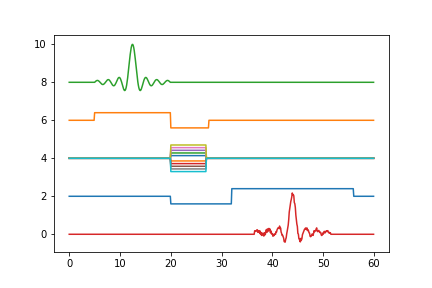
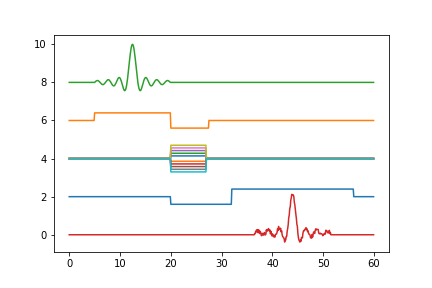
complete functional decay functions

diff --git a/kspace.py b/kspace.py
@@ -11,6 +11,12 @@ class Temp:
     m64 = np.ndarray((64,64,3))
     temp_counter = 0
     
+class Parameters:
+    TE = 0
+    TR = 0
+    RF = 0
+    
+    
 class KSpace:
     def __init__(self, phantom):
         super(KSpace,self).__init__()
@@ -36,10 +42,20 @@ class KSpace:
         self.real_kspace = np.fft.fft2(self.phantom)
         
         # in ms
-        self.T1 = 400
-        self.T2 = 40
-        self.TR = 2000
-        self.TE = 15
+        # self.T1 = 400
+        # self.T2 = 40
+        self.TR = Parameters.TR
+        self.TE = Parameters.TE
+        
+        self.tissue1_T2 = 70
+        self.tissue2_T2 = 80
+        # self.tissue3_T2 = 300
+        self.tissue3_T2 = 110
+        
+        self.tissue1_T1 = 500
+        self.tissue2_T1 = 800
+        # self.tissue3_T1 = 2500
+        self.tissue3_T1 = 1200
         
         # self.m = self.magnetization_vector(self.phantom)
     
@@ -100,13 +116,12 @@ class KSpace:
         self.num_of_rows = self.phantom.shape[0]
         self.num_of_cols = self.phantom.shape[1]
 
-
-
         # y and x are iterators in K-Space
         for y in range(counter, counter + 1):
             if(counter == 0):
                 m = self.magnetization_vector(self.phantom)
             else:
+                        
                 if(self.num_of_cols==16):
                     m = Temp.m16
                 elif(self.num_of_cols==32):
@@ -114,10 +129,41 @@ class KSpace:
                 elif(self.num_of_cols==64):
                     m = Temp.m64
                     
+                for row in range(self.num_of_rows):
+                    for col in range(self.num_of_cols):
+                        if(self.phantom[row, col]==85):
+                            m[row, col, 0] = m[row, col, 0] * np.exp(-self.TR / self.tissue1_T2)
+                            m[row, col, 1] = m[row, col, 1] * np.exp(-self.TR / self.tissue1_T2)
+                            m[row, col, 2] = self.phantom[row, col] - ((self.phantom[row, col] - m[row, col, 2]) * np.exp(-self.TR / self.tissue1_T1))
+                        elif(self.phantom[row, col]==170):
+                            m[row, col, 0] = m[row, col, 0] * np.exp(-self.TR / self.tissue2_T2)
+                            m[row, col, 1] = m[row, col, 1] * np.exp(-self.TR / self.tissue2_T2)
+                            m[row, col, 2] = self.phantom[row, col] - ((self.phantom[row, col] - m[row, col, 2]) * np.exp(-self.TR / self.tissue2_T1))
+                        
+                        elif(self.phantom[row, col]==255):
+                            m[row, col, 0] = m[row, col, 0] * np.exp(-self.TR / self.tissue3_T2)
+                            m[row, col, 1] = m[row, col, 1] * np.exp(-self.TR / self.tissue3_T2)
+                            m[row, col, 2] = self.phantom[row, col] - ((self.phantom[row, col] - m[row, col, 2]) * np.exp(-self.TR / self.tissue3_T1))
+                        
+                        else:
+                            m[row, col, 0] = 0
+                            m[row, col, 1] = 0
+                            m[row, col, 2] = 0
+                            
+                            
             """ comment the next line when you use decay """
-            m = self.magnetization_vector(self.phantom)
-            # m = self.decay_mag(m, self.decay(self.TE, self.TR, self.T1, self.T2))
-            m = self.RF_pulse(m, np.pi/4)
+            # m = self.magnetization_vector(self.phantom)
+            
+            """" OPTIMIZATION """
+            # m[self.phaton == 0] = 0
+            # m[self.phantom == 85] = self.phantom - ((self.phantom - m[..., 2]) * np.exp(-self.TR / self.tissue1_T1))
+            # m[self.phantom == 170] = self.phantom - ((self.phantom - m[..., 2]) * np.exp(-self.TR / self.tissue2_T1))
+            # m[self.phantom == 255] = self.phantom - ((self.phantom - m[..., 2]) * np.exp(-self.TR / self.tissue3_T1))
+            
+            
+                        
+           
+            m = self.RF_pulse(m, (Parameters.RF * np.pi)/180)
             
 
 
@@ -128,28 +174,42 @@ class KSpace:
             _, Gy = np.meshgrid(np.linspace(0, (y * self.dkx) * (self.num_of_cols - 1), self.num_of_cols),
                                 np.linspace(0, (y * self.dky) * (self.num_of_rows - 1), self.num_of_rows))
             
+                      
+            for row in range(self.num_of_rows):
+               for col in range(self.num_of_cols):  
+                   # Phase Encoding 
+                   m_rot[row, col, :] = np.dot(self.Rz(Gy[row, col]), m[row, col, :])
+                   
+            
+                   if(self.phantom[row, col]==85):
+                       m_rot[row, col, 0] = m_rot[row, col, 0] * np.exp(-self.TE / self.tissue1_T2)
+                       m_rot[row, col, 1] = m_rot[row, col, 1] * np.exp(-self.TE / self.tissue1_T2)
+                       m_rot[row, col, 2] = self.phantom[row, col] - ((self.phantom[row, col] - m[row, col, 2]) * np.exp(-self.TE / self.tissue1_T1))
+                   elif(self.phantom[row, col]==170):
+                       m_rot[row, col, 0] = m_rot[row, col, 0] * np.exp(-self.TE / self.tissue2_T2)
+                       m_rot[row, col, 1] = m_rot[row, col, 1] * np.exp(-self.TE / self.tissue2_T2)
+                       m_rot[row, col, 2] = self.phantom[row, col] - ((self.phantom[row, col] - m[row, col, 2]) * np.exp(-self.TE / self.tissue2_T1))
+                   elif(self.phantom[row, col]==255):
+                       m_rot[row, col, 0] = m_rot[row, col, 0] * np.exp(-self.TE / self.tissue3_T2)
+                       m_rot[row, col, 1] = m_rot[row, col, 1] * np.exp(-self.TE / self.tissue3_T2)
+                       m_rot[row, col, 2] = self.phantom[row, col] - ((self.phantom[row, col] - m[row, col, 2]) * np.exp(-self.TE / self.tissue3_T1))
+                   else:
+                       m_rot[row, col, 0] = 0
+                       m_rot[row, col, 1] = 0
+                       m_rot[row, col, 2] = 0
+                       
+
             
             for x in range(self.num_of_cols):
                 
                 Gx, _ = np.meshgrid(np.linspace(0, (x * self.dkx) * (self.num_of_cols - 1), self.num_of_cols),
                                     np.linspace(0, (y * self.dky) * (self.num_of_rows - 1), self.num_of_rows))
     
-                # add both angles
-                # thread
-                # histo bar
-                
-                
-                for row in range(self.num_of_rows):
-                  
-                   for col in range(self.num_of_cols):       
-                       # Phase Encoding 
-                       m_rot[row, col, :] = np.dot(self.Rz(Gy[row, col]), m[row, col, :])
-                       
+
                 # apply decay matrix
                 # m_rot = self.decay_mag(m_rot, self.decay(self.TE, self.TR, self.T1, self.T2))
                         
                 for row in range(self.num_of_rows):
-                   
                     for col in range(self.num_of_cols):       
                         # # Phase Encoding 
                         # m_rot[row, col, :] = np.dot(self.Rz(Gy[row, col]), m[row, col, :])

diff --git a/main.py b/main.py
@@ -14,6 +14,7 @@ import matplotlib.pyplot as plt
 import threading
 import asyncio
 from kspace import KSpace
+from kspace import Parameters
 from circle_item import CircleItem
 import sequence
 import phantom
@@ -52,8 +53,6 @@ def display_kspace(shared_variables, reconstruct_image, phantom_img, init_kspace
         Stop.counter = 0
         Stop.should_stop = True
         init_kspace()
-        # self.stop_timer()
-        # self.stop_thread()
         shared_variables['actionReconstruct'].setEnabled(True)
         shared_variables['actionStop'].setEnabled(False)
         shared_variables['actionPause'].setEnabled(False)
@@ -107,7 +106,9 @@ class MriMain(QtWidgets.QMainWindow, FORM_CLASS):
         self.actionOpen.triggered.connect(self.browse)
         # self.markerCheckBox.stateChanged.connect(self.set_point)
         
-        self.rfDial.valueChanged.connect(self.sequence)
+        self.TR_slider.valueChanged.connect(self.assign_TR_TE)
+        self.TE_slider.valueChanged.connect(self.assign_TR_TE)
+        self.RF_slider.valueChanged.connect(self.sequence)
         
         self.actionPause.setEnabled(False)
         self.actionStop.setEnabled(False)
@@ -124,12 +125,21 @@ class MriMain(QtWidgets.QMainWindow, FORM_CLASS):
         self.imageViews = [self.reconstructedView, self.phantomView, self.kspaceView]
         self.hideHisto()
         
+        self.assign_TR_TE()
         self.select_size(self.selected_size)  
         self.sequence()
 
         # Connect the mouseClicked signal to the custom slot
         # self.reconstructedView.mouseClicked.connect(self.handle_mouse_clicked)
     
+    def assign_TR_TE(self):
+        Parameters.TR = self.TR_slider.value()
+        Parameters.TE = self.TE_slider.value()
+        Parameters.RF = self.RF_slider.value()
+        self.TR_label.setText(str(self.TR_slider.value()))
+        self.TE_label.setText(str(self.TE_slider.value()))
+        self.RF_label.setText(str(self.RF_slider.value()))
+        
     def select_size(self, index):
         self.selected_size = index
         if(index == 0):
@@ -171,6 +181,7 @@ class MriMain(QtWidgets.QMainWindow, FORM_CLASS):
         
     def prespec(self, typo ,img):
         self.unique_img = np.unique(img)
+        print("I'm so unique", self.unique_img)
         self.LUT = np.array([self.unique_img,
     				[ 254 ,102 ,84 ,1],
     			    [ 83  , 100  ,169 ,200]])
@@ -379,8 +390,11 @@ class MriMain(QtWidgets.QMainWindow, FORM_CLASS):
         pass
 
     def sequence(self):
+        self.RF_label.setText(str(self.RF_slider.value()))
         plt.clf()
-        rf_amp = self.rfDial.value() / 45
+        TR = self.TR_slider.value()
+        TE = self.TE_slider.value()
+        rf_amp = self.RF_slider.value() / 45
         time_step=0.1
         start_time=50
         Gz_amp=0.4
